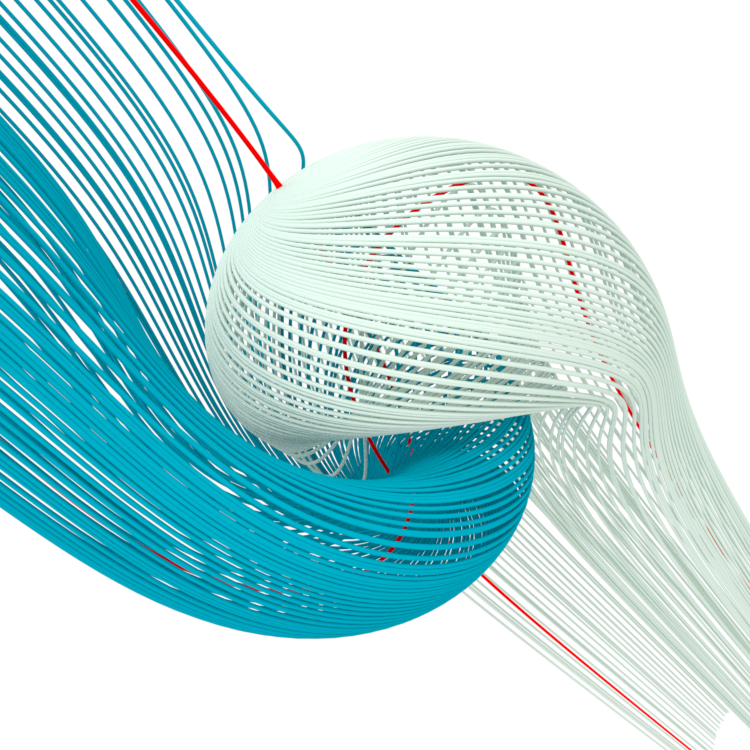
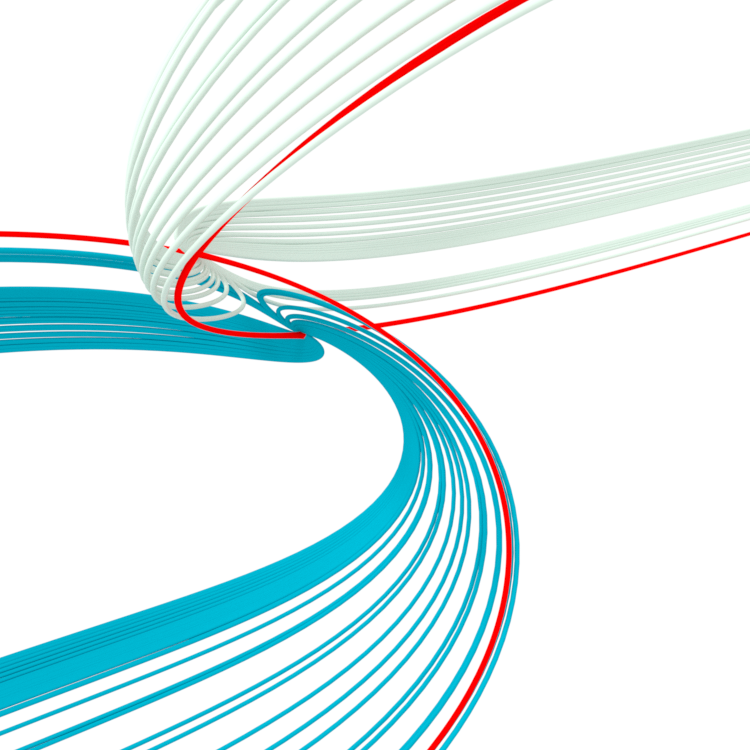
new movie with isotrope that ramps the field strength in progress!

diff --git a/fig/hopfnulls/hopfnullmovie/hopfnullmag.py b/fig/hopfnulls/hopfnullmovie/hopfnullmag.py
@@ -1,0 +1,99 @@
+# Hopfnulls.py: creates the field lines of the Hopf fibration in a constant guide field.
+#
+#
+#To change the angle and strength of the guide field change the variables on lines 30-32
+#
+# coded by Christopher Berg Smiet on Oktober 16
+# csmiet@pppl.gov
+#
+import os, sys, inspect       # For importing the submodules in a platform-independend robust way
+import numpy as np
+import matplotlib.pyplot as plt
+import matplotlib.cm as cm
+import matplotlib
+import bpy                    # This module is only available inside of Blender's version of python, comment when debugging
+from functools import partial # create new funtions from old functions (and strip the kwargs)
+
+# Make sure that the path to BlenDaViz and the integration library are in the front of the path.
+code_folder = os.path.realpath(os.path.abspath(os.path.join(os.path.split(inspect.getfile( inspect.currentframe() ))[0],"../../../code")))
+if code_folder not in sys.path:
+     sys.path.insert(0, code_folder)
+
+import integrate as ig
+import BlenDaViz as bz
+
+
+
+#guide field properties:
+Rmax = 0.2
+#Rs = np.concatenate((Rmax*np.ones(45)))
+Rs = np.linspace(0.0001, 0.4, 45)
+Phi_int=0.6
+#Phis = np.linspace(Phi_int, 1.675, 45)
+Phis = 1.2107*np.ones(45)
+Thetas =  np.pi*np.ones(45)
+
+First= True
+
+isotropestart= ig.Hopf_nulls(0.01, 1.2107, np.pi)[1]
+isotropestream = ig.stream(isotropestart, vvfn=ig.Hopf_isotropes, tol=1e-7, iterMax=3000,  hMin=2e-7, lMax = 100, intdir='forward')
+bz.plot(isotropestream.x, isotropestream.y, isotropestream.z, color =  'g', radius=0.01)
+
+for framenum, (R, Phi, Theta) in reversed(list( enumerate(zip(Rs, Phis, Thetas)))):
+    fn = partial(ig.BHopf_guide_RPT, R=R, Phi=Phi, Theta = Theta)
+#    if framenum <42:
+#        print('break for framenum {}'.format(framenum))
+#        continue #but skip this iteration
+
+#generate the starting points of the streamline
+    nulls = ig.Hopf_nulls(R, Phi, Theta)
+    npoints=60
+    startpoints = []
+    null1 = ig.zeroPoints(nulls[0], ig.Dipole(nulls[0]), sign=-1, dist=0.01, npoints=npoints, radius = 0.01)
+    null2 = ig.zeroPoints(nulls[1], ig.Dipole(nulls[1]), sign=1, dist = 0.01, npoints=npoints, radius = 0.01)
+
+    n1spine = ig.stream_multi(null1.fanpoints, vvfn=fn, tol=1e-7, iterMax=3000,  hMin=2e-7, lMax = 100, intdir='forward')
+    n1fan = ig.stream_multi(null1.fanpoints, vvfn=fn, tol=1e-8, iterMax=3000,  hMin=2e-7, lMax = 100, intdir='back')
+
+    n2spine = ig.stream_multi(null2.fanpoints, vvfn=fn, tol=1e-8, iterMax=3000,  hMin=2e-7, lMax = 100, intdir='back')
+    n2fan = ig.stream_multi(null2.fanpoints, vvfn=fn, tol=1e-8, iterMax=3000,  hMin=2e-6, lMax = 100, intdir='forward')
+    if First:
+        n1fanlines = []
+        for stream in n1fan:
+            n1fanlines.append(bz.plot(stream.x, stream.y, stream.z, color = (0.        , 0.37109375, 0.49609375) , radius=0.01))
+        n1spinelines = []
+        for stream in n1spine:
+            n1spinelines.append(bz.plot(stream.x, stream.y, stream.z, color = 'r', radius=0.01))
+        n2fanlines = []
+        for stream in n2fan:
+            n2fanlines.append(bz.plot(stream.x, stream.y, stream.z, color =  (.639, .757, .678), radius=0.01))
+        n2spinelines = []
+        for stream in n2spine:
+            n2spinelines.append(bz.plot(stream.x, stream.y, stream.z, color = 'r', radius=0.01))
+        First = False
+    else:
+        for num, stream in enumerate(n1fan):
+            n1fanlines[num].x = stream.x
+            n1fanlines[num].y = stream.y
+            n1fanlines[num].z = stream.z
+            n1fanlines[num].plot()
+        for num, stream in enumerate(n1spine):
+            n1spinelines[num].x = stream.x
+            n1spinelines[num].y = stream.y
+            n1spinelines[num].z = stream.z
+            n1spinelines[num].plot()
+        for num, stream in enumerate(n2fan):
+            n2fanlines[num].x = stream.x
+            n2fanlines[num].y = stream.y
+            n2fanlines[num].z = stream.z
+            n2fanlines[num].plot()
+        for num, stream in enumerate(n2spine):
+            n2spinelines[num].x = stream.x
+            n2spinelines[num].y = stream.y
+            n2spinelines[num].z = stream.z
+            n2spinelines[num].plot()
+
+
+
+    bpy.data.scenes['Scene'].render.filepath = 'magnitude/hopfnullmovie{}.png'.format(framenum)
+    bpy.ops.render.render(write_still=True)
